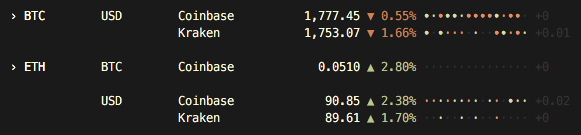
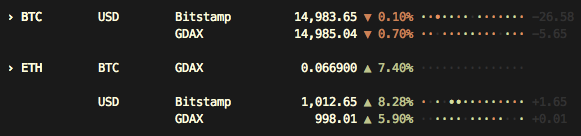
Use display names for exchange readout, update screenshot.

diff --git a/index.js b/index.js
@@ -34,9 +34,6 @@ if (args) {
 
 // Utility functions
 const utility = {
-  // Convert string to title case
-  toTitleCase: string => string.replace(/\w\S*/g, text => text.charAt(0).toUpperCase() + text.substr(1).toLowerCase()),
-
   // Add commas to number
   addCommas: string => string.toString().replace(/(\d)(?=(\d\d\d)+(?!\d))/g, '$1,'),
 
@@ -47,6 +44,7 @@ const utility = {
 // Write display to STDOUT
 let previousPriceData = {};
 const priceDataHistory = {};
+const exchangeLookup = {};
 let previousPrimaryCurrency = null;
 let previousSecondaryCurrency = null;
 let statusOutput = '';
@@ -127,11 +125,11 @@ const writeToStdout = (limitReached, priceData, allowance) => {
 
         // Show percent change in last 24 hours
         if (utility.fixed(exchangePriceData.price.change.percentage * 100, 2) > 0) {
-          changeOutput = pad(colors.green(`▲ ${changePercentageFixed.toString()}%`), 16);
+          changeOutput = pad(colors.green(`▲ ${changePercentageFixed.toString()}%`), 15);
         } else if (utility.fixed(exchangePriceData.price.change.percentage * 100, 2) < 0) {
-          changeOutput = pad(colors.red(`▼ ${changePercentageFixed.toString()}%`), 16);
+          changeOutput = pad(colors.red(`▼ ${changePercentageFixed.toString()}%`), 15);
         } else {
-          changeOutput = pad(`  ${changePercentageFixed.toString()}%`, 7, '+');
+          changeOutput = pad('', 7);
         }
 
         // Show history of price updates
@@ -232,10 +230,10 @@ const retrieveMarketData = () => {
         const primaryCurrency = marketName.substr(0, 3).toUpperCase();
         const secondaryCurrency = marketName.substr(3, 3).toUpperCase();
 
-        exchanges.push(exchange);
+        exchanges.push(exchangeLookup[exchange]);
         priceData[primaryCurrency] = priceData[primaryCurrency] || {};
         priceData[primaryCurrency][secondaryCurrency] = priceData[primaryCurrency][secondaryCurrency] || {};
-        priceData[primaryCurrency][secondaryCurrency][utility.toTitleCase(exchange)] = body && body.result[market];
+        priceData[primaryCurrency][secondaryCurrency][exchangeLookup[exchange]] = body && body.result[market];
       });
 
       const sortedExchanges = exchanges.sort((a, b) => b.length - a.length);
@@ -253,8 +251,28 @@ const retrieveMarketData = () => {
   });
 };
 
+// Retrieve exchange information from endpoint
+const retrieveExchangeData = () => {
+  needle.get('https://api.cryptowat.ch/exchanges', (error, response) => {
+    const body = response && response.body;
+
+    if (!error && body && response.statusCode === 200) {
+      body.result.forEach((exchange) => {
+        exchangeLookup[exchange.symbol] = exchange.name;
+      });
+
+      setInterval(() => {
+        retrieveMarketData();
+      }, options.app.pollInterval);
+
+      return retrieveMarketData();
+    } else if (response && response.statuscode === 429) {
+      return writeToStdout(true);
+    }
+
+    return writeToStdout(false, null);
+  });
+};
+
 // Kick out the jams
-setInterval(() => {
-  retrieveMarketData();
-}, options.app.pollInterval);
-retrieveMarketData();
+retrieveExchangeData();

diff --git a/README.md b/README.md
@@ -4,7 +4,7 @@
 [![npm](https://img.shields.io/npm/dm/crypticker.svg)](https://www.npmjs.com/package/crypticker)
 [![David](https://img.shields.io/david/sblaurock/crypticker.svg)](https://david-dm.org/sblaurock/crypticker)
 
-Command line cryptocurrency price ticker for Bitcoin, Ethereum, Ripple, and more.
+Command line cryptocurrency price ticker for Bitcoin, Ethereum, and more.
 
 ![screenshot](https://github.com/sblaurock/crypticker/raw/master/screenshot.png "Example screenshot of ticker.")
 
